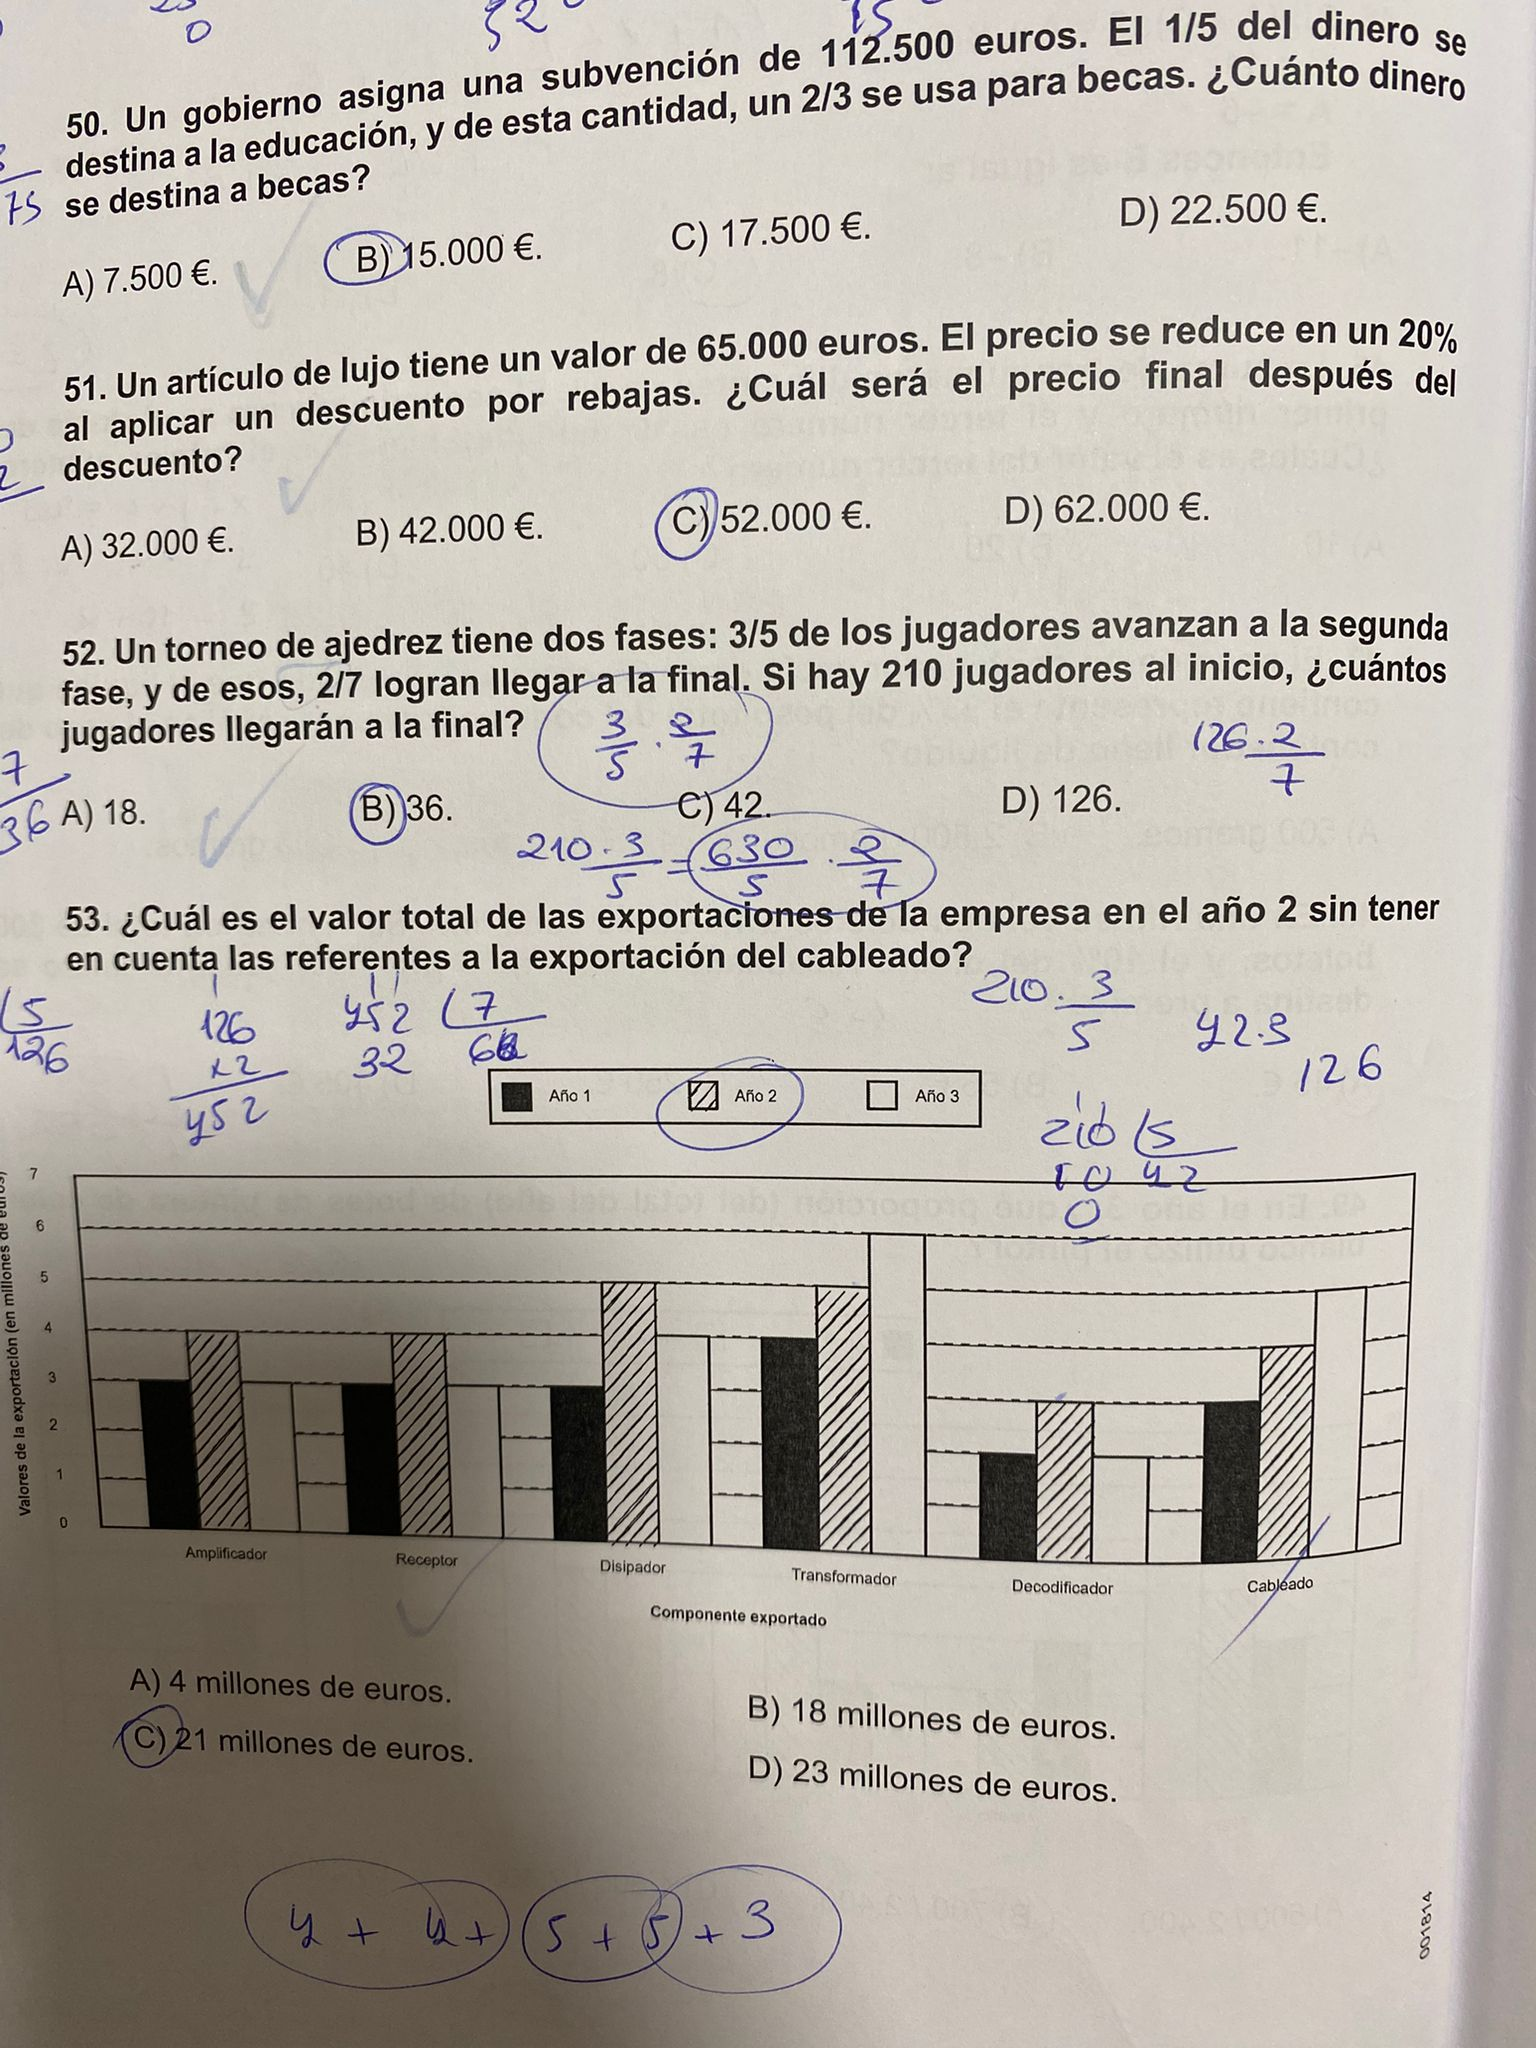
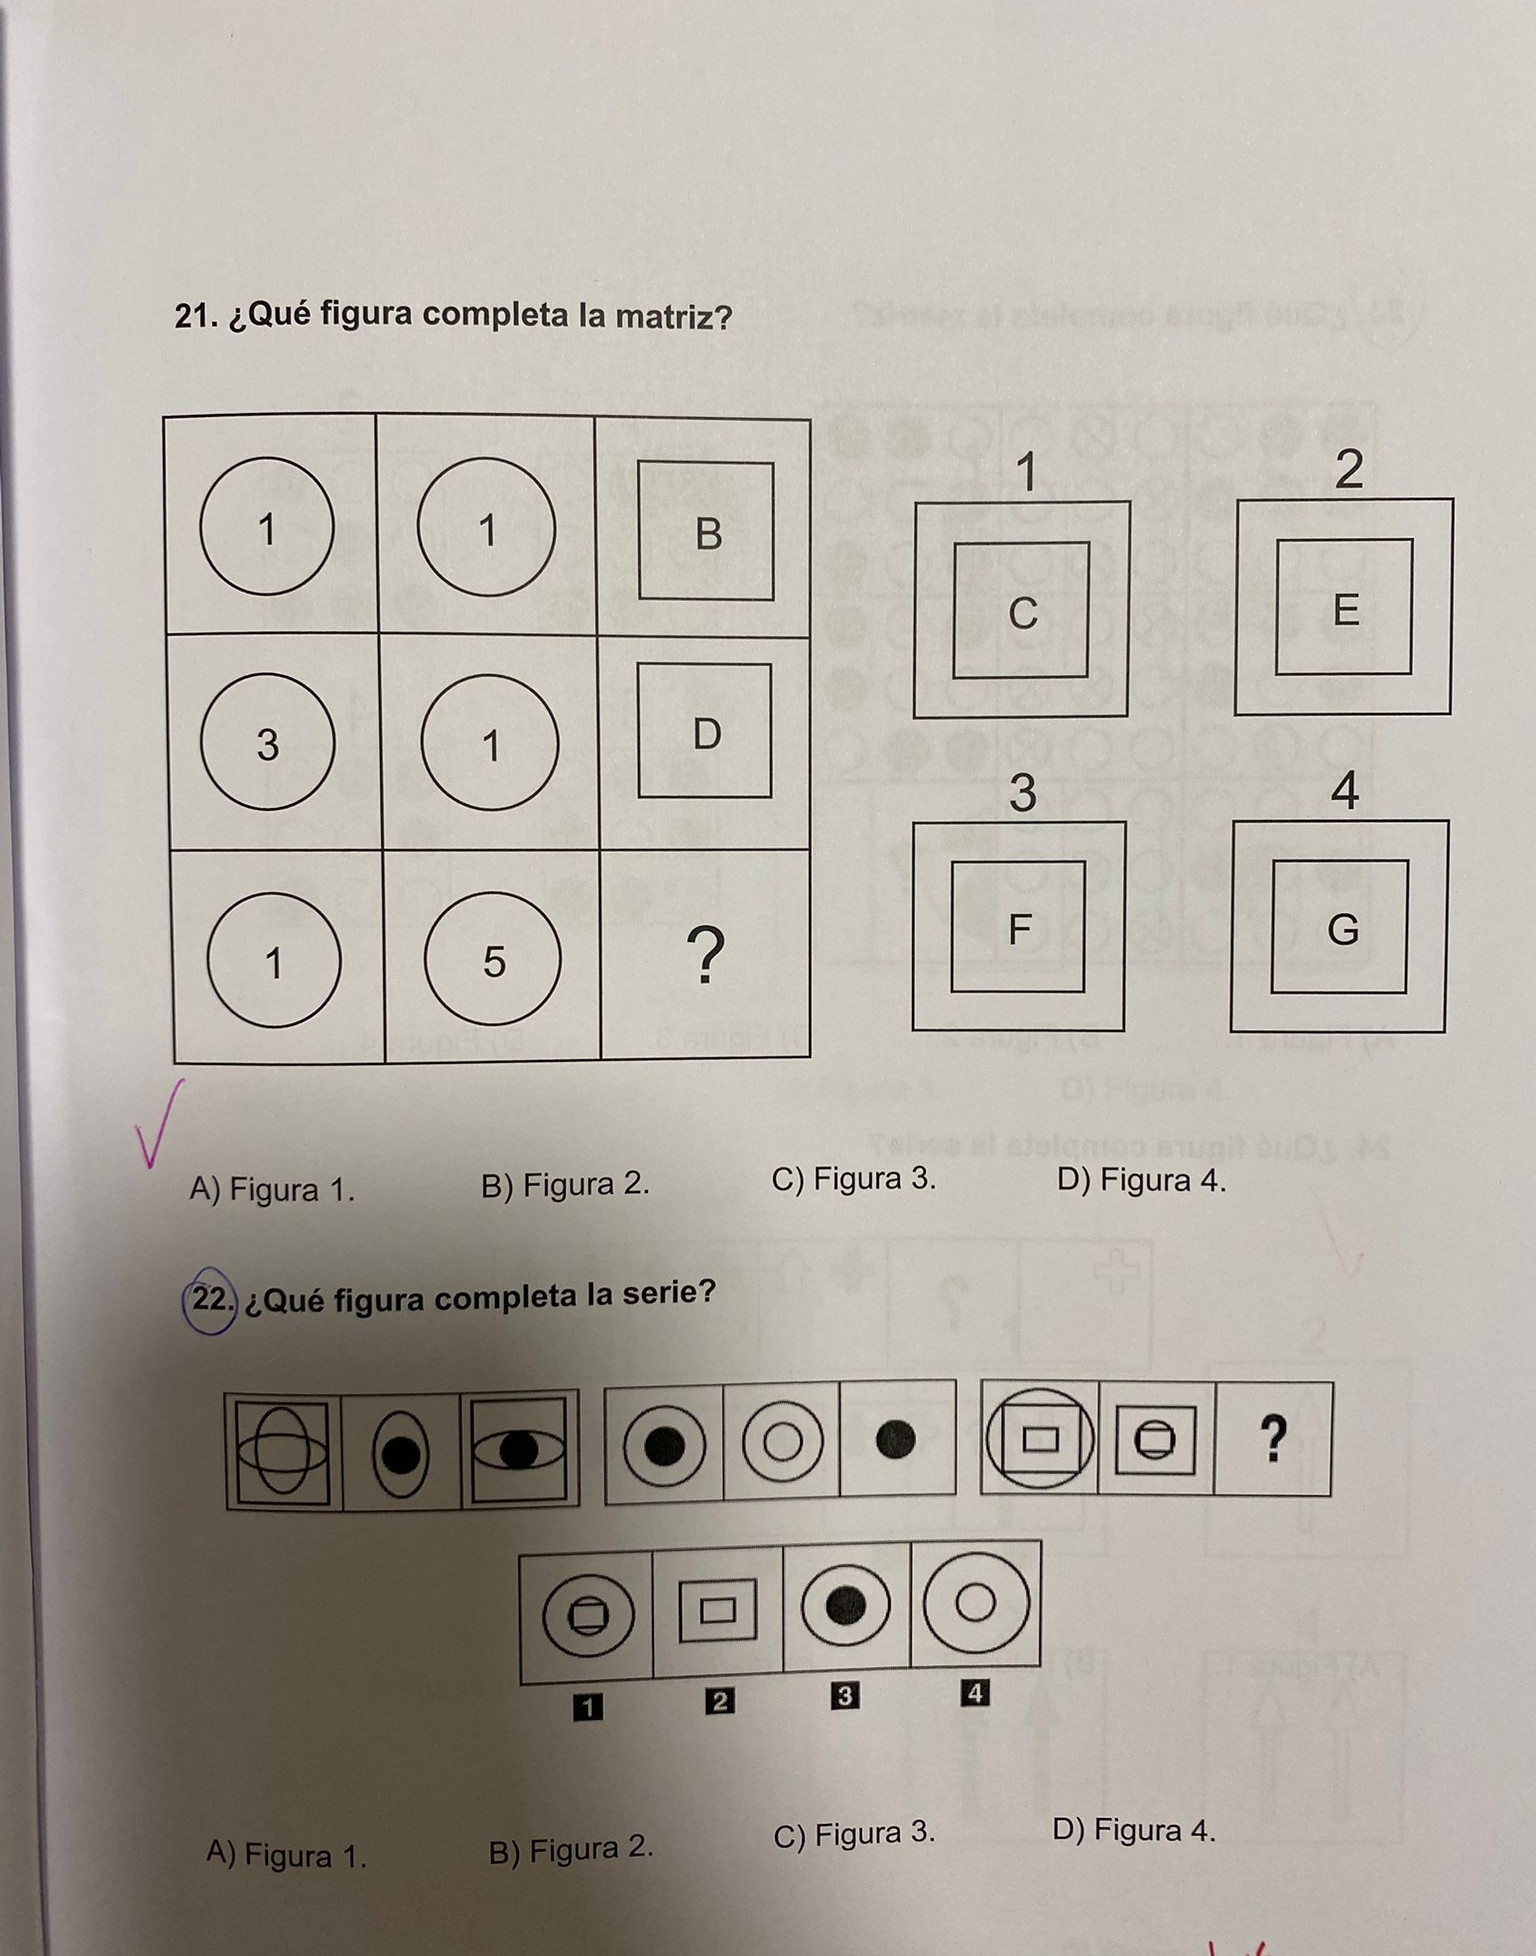
Bloque A: recupera gráficos de examen mal asignados o perdidos
data/real.source.js (gitignored) se corrige en local, fuera de este commit:
- wa-aptitudes-21/22 tenían asignada la imagen equivocada: whatsapp_item21_22.jpeg
  mostraba en realidad la página de los ítems 50-53 (imagen cruzada real, no solo
  potencial). Recortada y sustituida por la foto correcta (matriz de círculos +
  serie de óvalos), verificada visualmente contra la clave.
- wa-aptitudes-42 ("Se entrevistaron a 200 ancianos...") citaba un gráfico de
  sectores sin ningún campo `image` ni palabra tipo "gráfico/tabla" en el
  enunciado -> se colaba como pregunta irresoluble. Recuperada la foto original,
  recortada al gráfico y añadida como whatsapp_item42.jpeg.
- wa-aptitudes-49/53/55: estaban marcadas status:"revision" (sin asset) desde la
  ronda anterior. Recuperadas las tres fotos originales, recortadas a sus
  gráficos respectivos y verificadas contra las claves circuladas a mano;
  quitado requiresAsset/status:"revision", quedan de vuelta en el pool.

scripts/validate-questions.mjs:
- Detector de requiresAsset ampliado con patrones de dependencia implícita de
  datos externos sin palabra-gancho tipo gráfico/tabla/figura (el caso de
  wa-aptitudes-42): "se entrevistaron a N", "sobre el porcentaje", "según los
  datos/resultados", "en la muestra", "puede afirmarse que", "de los
  siguientes", categorías entre paréntesis separadas por "/" o "x". Se reporta
  como (h), señal blanda para revisión manual (no auto-marca revision: genera
[…]

diff --git a/reports/questions-audit.md b/reports/questions-audit.md
@@ -1,8 +1,20 @@
 # Auditoría de preguntas reales (data/real.source.js)
 
-Generado por `scripts/validate-questions.mjs`. Total de ítems: 710. Ítems con hallazgos que ameritan `status: "revision"`: 3 (3 ya marcados y excluidos del pool por content.js, 0 pendientes de marcar).
+Generado por `scripts/validate-questions.mjs`. Total de ítems: 710. Ítems con hallazgos que ameritan `status: "revision"`: 0 (0 ya marcados y excluidos del pool por content.js, 0 pendientes de marcar).
 
-_(f) y (g) parten de 119 assets encontrados en public/assets/exams/._
+_(f) y (g) parten de 123 assets encontrados en public/assets/exams/._
+
+## Registro de sesiones (trabajo manual, no derivable de REAL)
+
+### 2026-08-20 (ronda 2)
+
+- Detector requiresAsset ampliado con patrones de dependencia implícita (ver (h) más abajo) — cubre el caso que se escapó: wa-aptitudes-42 ("Se entrevistaron a 200 ancianos...") no usa ninguna palabra tipo gráfico/tabla/figura.
+- Pasada semántica manual sobre las 40 preguntas de razonamiento_numerico (única categoría con riesgo real de dependencia oculta: verbal/inglés son autocontenidas por construcción, y las categorías de figura ya exigen imagen). Resultado: 40/40 resueltas — o bien autocontenidas, o bien con gráfico recuperado.
+- Bloque recuperado con imagen nueva (recortada de la foto original y verificada visualmente contra la clave): wa-aptitudes-21/22 (imagen que tenía asignada antes NO era la suya — mostraba la página de los ítems 50-53; corregida), wa-aptitudes-42, wa-aptitudes-49, wa-aptitudes-53, wa-aptitudes-55. Los 3 últimos salen de needs_review/status:"revision" de la ronda anterior.
+- Excluidos permanentemente (sin fuente recuperable): ninguno nuevo esta ronda — los 3 que estaban en revision se recuperaron todos.
+- (h) marca ex20240317-38 (ciclista, +5km/día) por "de los siguientes" — falso positivo revisado a mano: es una progresión aritmética autocontenida (10 + 5×13 = 75km, opción D), no depende de ningún gráfico. Queda en el pool.
+- Bug de repetición dentro de una misma lección: content.js elegía cada ítem con Math.random() independiente por pregunta, sin memoria de lo ya servido -> podía repetir el mismo id real o la misma pregunta generada dos veces en una lección. Fix: buildLesson/makeItem ahora reciben una `session` (ids reales ya usados + firmas normalizadas ya usadas) y consumen cada bloque de REAL barajado una vez (Fisher-Yates) sin reemplazo; los generadores reintentan hasta 10 veces ante colisión de firma y si no, se descarta esa pregunta y la lección se acorta en vez de repetir.
+- Añadido check (i) al validador: 0 duplicados reales en las 710 preguntas (una comprobación ingenua solo por texto daba 60 falsos positivos en categorías de figura, resueltos incluyendo `image` en la firma).
 
 ## (a) correctIndex fuera de rango (0)
 
@@ -20,11 +32,9 @@ Ninguno.
 
 Ninguno.
 
-## (e) citan gráfico/tabla/figura sin asset válido (requiresAsset) (3)
+## (e) citan gráfico/tabla/figura sin asset válido (requiresAsset) (0)
 
-- `wa-aptitudes-49` [razonamiento_numerico] (sin campo image) — ya marcado `status: "revision"`: "En el año 3, ¿qué proporción (del total del año) de botes de pintura de color blanco utili..."
-- `wa-aptitudes-53` [razonamiento_numerico] (sin campo image) — ya marcado `status: "revision"`: "¿Cuál es el valor total de las exportaciones de la empresa en el año 2 sin tener en cuenta..."
-- `wa-aptitudes-55` [razonamiento_numerico] (sin campo image) — ya marcado `status: "revision"`: "Sobre la base de los resultados de la investigación de compra de ropa representados en el ..."
+Ninguno.
 
 ## (f) imagen rota (no cita gráfico en el prompt, pero el archivo no existe) (0)
 
@@ -33,6 +43,14 @@ Ninguno.
 ## (g) posible imagen cruzada (carpeta del asset no encaja con sourceFile) (0)
 
 Ninguno.
+
+## (h) posible dependencia de datos externos sin palabra-gancho (señal blanda, revisar a mano) (1)
+
+- `ex20240317-38` [razonamiento_numerico]: "Un ciclista entrena todos los días durante 2 semanas, el primer día recorrió 10 kilómetros. Cada día de los si..."
+
+## (i) duplicados por firma normalizada de prompt (0 grupos)
+
+Ninguno. (Nota: una comprobación ingenua solo por texto de prompt da 60 falsos positivos en categorías de figura — matrices/relojes/figuras_no_relacionadas/test_series_figuras comparten prompt genérico "¿Qué figura completa...?" pero cada una trae una imagen distinta. La firma real incluye el campo `image` precisamente para no confundir eso con un duplicado.)
 
 ## Ítems fuera del pool por categoría
 
@@ -44,7 +62,7 @@ Ninguno.
 | ingles_b1 | 50 | 0 |
 | ingles_b2 | 45 | 0 |
 | matrices | 73 | 0 |
-| razonamiento_numerico | 40 | 3 |
+| razonamiento_numerico | 40 | 0 |
 | relojes | 40 | 0 |
 | secuencia_num_letras | 39 | 0 |
 | series_figuras | 77 | 0 |
